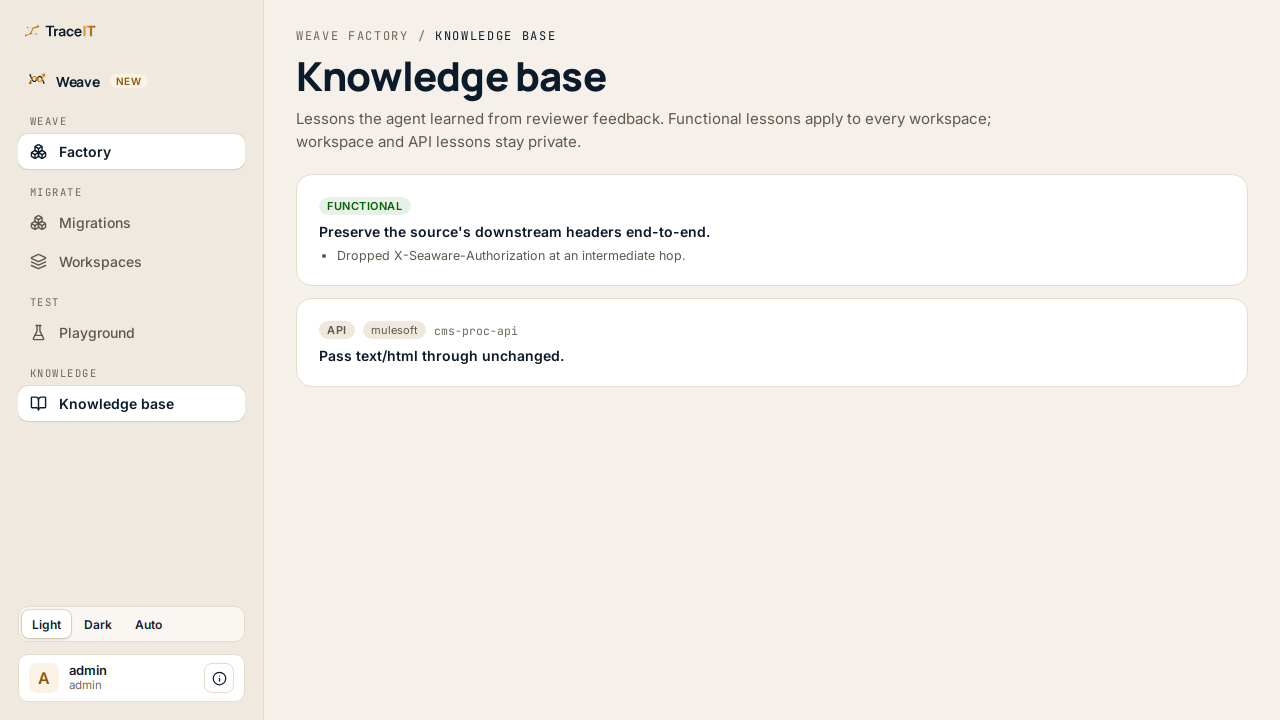
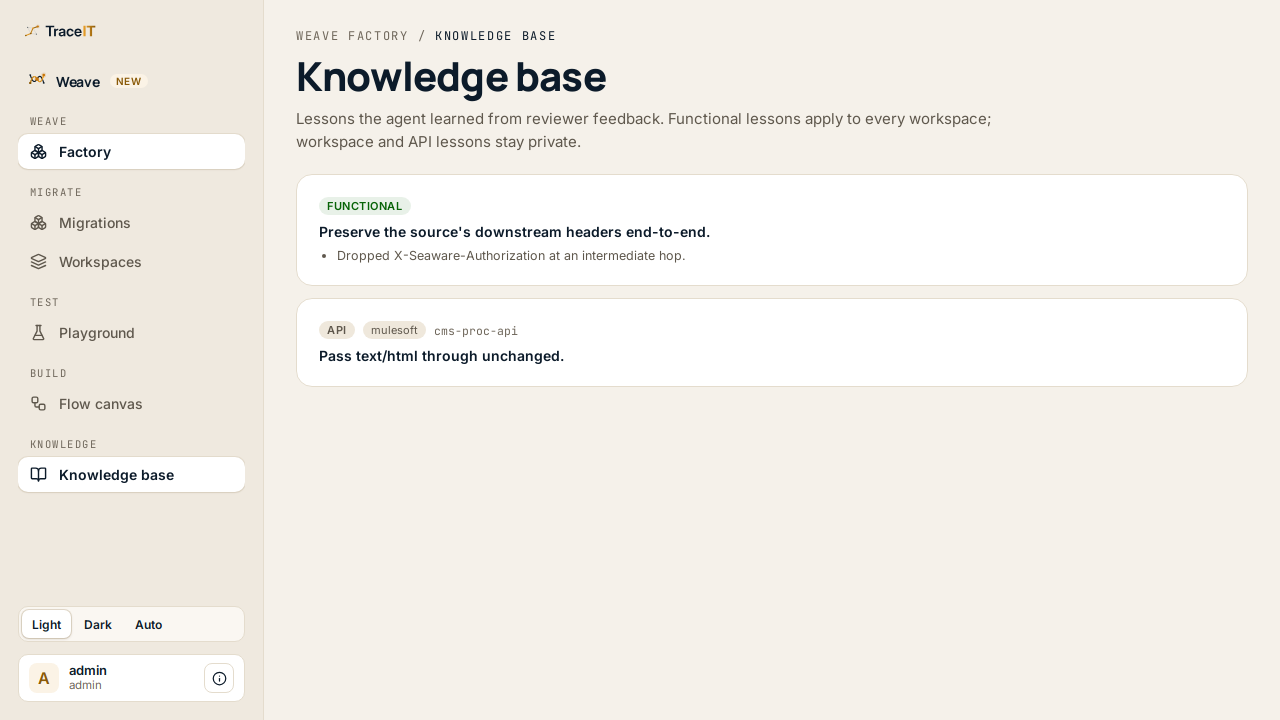
feat(weave-factory): low-code flow canvas + by-example data mapper (Part B)
- Flow canvas with a core node set (HTTP trigger, Transform, Call API, Respond); the full palette
  from the WSO2 connector/mediator catalog is the later phase (clear seam in the node strip).
- Two-panel source/target mapper. A target field is filled three ways: direct mapping, a small
  expression, or BY EXAMPLE - paste a sample source + desired output and the agent infers the rules.
- Inference runs in the BFF behind a clean Inferrer interface (POST /api/factory/infer-mapping):
  a deterministic, in-estate heuristic stub today (no external AI; sample data never leaves),
  with a seam (MODEL_URL) to wire the in-estate model; reports needsModel so the UI says so.
- Readable rules + a LIVE PREVIEW that applies the mapping to the sample and highlights field
  mismatches vs the desired output (trust without reading code). Compile to a WSO2 MI payloadFactory
  artifact. Pure mapping lib (apply/diff/compile) unit-tested.
- Tests: vitest (bff 10, app 18) + Playwright+axe (16); screenshots incl canvas in runs/weave-factory.

Changed region(s): [[0.0, 0.5194, 0.2188, 0.7028]]

diff --git a/apps/weave-factory/src/screens/Canvas.tsx b/apps/weave-factory/src/screens/Canvas.tsx
@@ -1,0 +1,109 @@
+import { useMemo, useState } from "react";
+import { useMutation } from "@tanstack/react-query";
+import { Webhook, Shuffle, Send, CornerDownLeft } from "lucide-react";
+import { api, type MappingRule } from "../api.ts";
+import { applyMapping, diffMapping, ruleLabel, compileToArtifact } from "../lib/mapping.ts";
+import { Card } from "../components/ui.tsx";
+import { PageHeader } from "./PageHeader.tsx";
+
+// Core node set (first pass). Generating the full palette from the WSO2 connector/mediator catalog
+// is the later phase; this strip is the seam where that palette will plug in.
+const NODES = [
+  { key: "trigger", label: "HTTP trigger", icon: Webhook },
+  { key: "transform", label: "Transform", icon: Shuffle },
+  { key: "call", label: "Call API", icon: Send },
+  { key: "respond", label: "Respond", icon: CornerDownLeft },
+];
+
+const field = { width: "100%", borderRadius: 9, border: "1px solid var(--border)", background: "var(--surface2)", padding: "8px 12px", fontSize: 12.5 } as const;
+
+export function Canvas() {
+  const [node, setNode] = useState("transform");
+  const [sampleStr, setSampleStr] = useState('{\n  "customer": { "ref": "C1", "name": "Jane Doe", "email": "jane@x.com" }\n}');
+  const [desiredStr, setDesiredStr] = useState('{\n  "ref": "C1",\n  "email": "jane@x.com",\n  "first": "Jane"\n}');
+  const [rules, setRules] = useState<MappingRule[]>([]);
+  const [note, setNote] = useState("");
+
+  const parsed = useMemo(() => {
+    let source: unknown = {}; let desired: unknown = {}; let err = "";
+    try { source = JSON.parse(sampleStr || "{}"); } catch { err = "Sample source is not valid JSON"; }
+    try { desired = JSON.parse(desiredStr || "{}"); } catch { err = err || "Desired output is not valid JSON"; }
+    return { source, desired, err };
+  }, [sampleStr, desiredStr]);
+
+  const produced = useMemo(() => applyMapping(rules, parsed.source), [rules, parsed.source]);
+  const mismatches = useMemo(() => diffMapping(produced, parsed.desired), [produced, parsed.desired]);
+  const artifact = useMemo(() => compileToArtifact(rules, { name: "transform" }), [rules]);
+
+  const infer = useMutation({
+    mutationFn: () => api.inferMapping(parsed.source, parsed.desired),
+    onSuccess: (r) => { setRules(r.rules); setNote(r.needsModel ? `Engine: ${r.engine}. Some fields were guessed - confirm with the preview, or connect the in-estate model for better inference.` : `Engine: ${r.engine}. All fields mapped from the example.`); },
+  });
+
+  function updateRule(i: number, patch: Partial<MappingRule>) { setRules((rs) => rs.map((r, j) => (j === i ? { ...r, ...patch } : r))); }
+  function addRule() { setRules((rs) => [...rs, { target: "", kind: "direct", source: "" }]); }
+
+  return (
+    <>
+      <PageHeader area="Flow canvas" title="Flow canvas" subtitle="Build an integration visually. The Transform node maps source to target - by direct mapping, a small expression, or by example (paste a sample and the desired output; the agent infers the mapping)." />
+
+      <Card style={{ display: "flex", gap: 10, alignItems: "center", flexWrap: "wrap" }}>
+        {NODES.map((n, i) => (
+          <span key={n.key} style={{ display: "flex", alignItems: "center", gap: 10 }}>
+            <button className={`mf-btn ${node === n.key ? "mf-api-on" : ""}`} onClick={() => setNode(n.key)}
+              style={{ display: "flex", alignItems: "center", gap: 8, padding: "10px 14px", borderRadius: 12, border: "1px solid var(--border)", background: "var(--surface2)", cursor: "pointer", fontWeight: 600, fontSize: 13 }}>
+              <n.icon size={16} aria-hidden="true" />{n.label}
+            </button>
+            {i < NODES.length - 1 && <span style={{ color: "var(--faint)" }}>→</span>}
+          </span>
+        ))}
+      </Card>
+
+      {node === "transform" ? (
+        <div style={{ display: "flex", gap: 18, flexWrap: "wrap", alignItems: "flex-start" }}>
+          <Card style={{ flex: "1 1 360px", display: "flex", flexDirection: "column", gap: 10 }}>
+            <h2 style={{ margin: 0, fontSize: 16 }}>Source (sample)</h2>
+            <textarea aria-label="Source sample JSON" className="mf-input mf-mono" value={sampleStr} onChange={(e) => setSampleStr(e.target.value)} rows={8} style={{ ...field, resize: "vertical" }} />
+            <h2 style={{ margin: 0, fontSize: 16 }}>Target (desired output)</h2>
+            <textarea aria-label="Desired output JSON" className="mf-input mf-mono" value={desiredStr} onChange={(e) => setDesiredStr(e.target.value)} rows={8} style={{ ...field, resize: "vertical" }} />
+            {parsed.err && <p role="alert" style={{ margin: 0, color: "var(--bad)", fontSize: 13 }}>{parsed.err}</p>}
+            <button className="mf-btn mf-pri" disabled={infer.isPending || !!parsed.err} onClick={() => infer.mutate()} style={{ height: 40, borderRadius: 10, background: "var(--accent)", color: "var(--onAccent)", fontWeight: 600, border: 0, cursor: "pointer" }}>{infer.isPending ? "Inferring…" : "Infer mapping by example"}</button>
+            {note && <p style={{ margin: 0, fontSize: 12.5, color: "var(--muted)" }}>{note}</p>}
+          </Card>
+
+          <Card style={{ flex: "1 1 420px", display: "flex", flexDirection: "column", gap: 10 }}>
+            <div style={{ display: "flex", justifyContent: "space-between", alignItems: "center" }}>
+              <h2 style={{ margin: 0, fontSize: 16 }}>Mapping rules</h2>
+              <button className="mf-btn mf-gho" onClick={addRule} style={{ height: 30, padding: "0 12px", borderRadius: 8, border: "1px solid var(--border)", background: "var(--surface)", cursor: "pointer", fontSize: 12.5 }}>Add rule</button>
+            </div>
+            {rules.length === 0 ? <p style={{ color: "var(--faint)", fontSize: 13 }}>Infer by example, or add rules manually (direct / expression / constant).</p> :
+              rules.map((r, i) => (
+                <div key={i} style={{ display: "flex", flexDirection: "column", gap: 6, padding: 10, borderRadius: 10, border: "1px solid var(--border)", background: "var(--surface2)" }}>
+                  <code className="mf-mono" style={{ fontSize: 12 }}>{ruleLabel(r)}</code>
+                  <div style={{ display: "flex", gap: 6, flexWrap: "wrap" }}>
+                    <input aria-label="target" className="mf-input mf-mono" value={r.target} onChange={(e) => updateRule(i, { target: e.target.value })} placeholder="target" style={{ ...field, width: 120, padding: "4px 8px" }} />
+                    <select aria-label="kind" className="mf-input" value={r.kind} onChange={(e) => updateRule(i, { kind: e.target.value as MappingRule["kind"] })} style={{ ...field, width: 110, padding: "4px 8px" }}>
+                      <option value="direct">direct</option><option value="expr">expression</option><option value="const">constant</option>
+                    </select>
+                    <input aria-label="value" className="mf-input mf-mono" value={r.kind === "direct" ? (r.source ?? "") : (r.expr ?? "")} onChange={(e) => updateRule(i, r.kind === "direct" ? { source: e.target.value } : { expr: e.target.value })} placeholder={r.kind === "direct" ? "source.path" : r.kind === "expr" ? "firstWord(a.b)" : '"value"'} style={{ ...field, flex: 1, minWidth: 120, padding: "4px 8px" }} />
+                  </div>
+                  {r.note && <span style={{ fontSize: 11.5, color: "var(--warn)" }}>{r.note}</span>}
+                </div>
+              ))}
+            <h2 style={{ margin: "6px 0 0", fontSize: 16 }}>Live preview {mismatches.length === 0 ? <span style={{ fontSize: 12, color: "var(--ok)" }}>✓ matches the example</span> : <span style={{ fontSize: 12, color: "var(--bad)" }}>{mismatches.length} field(s) differ</span>}</h2>
+            <pre className="mf-mono" data-testid="preview" style={{ margin: 0, padding: 12, borderRadius: 10, background: "var(--surface2)", border: "1px solid var(--border)", fontSize: 12, overflow: "auto", maxHeight: 220 }}>{JSON.stringify(produced, null, 2)}</pre>
+            {mismatches.length > 0 && (
+              <div style={{ display: "flex", flexDirection: "column", gap: 3 }}>
+                {mismatches.map((m) => <span key={m.path} style={{ fontSize: 12, color: "var(--bad)" }} className="mf-mono">{m.path}: got {JSON.stringify(m.produced)} ≠ want {JSON.stringify(m.desired)}</span>)}
+              </div>
+            )}
+            <h2 style={{ margin: "6px 0 0", fontSize: 16 }}>WSO2 artifact</h2>
+            <pre className="mf-mono" style={{ margin: 0, padding: 12, borderRadius: 10, background: "var(--surface2)", border: "1px solid var(--border)", fontSize: 11.5, overflow: "auto", maxHeight: 200 }}>{artifact}</pre>
+          </Card>
+        </div>
+      ) : (
+        <Card><p style={{ color: "var(--muted)" }}>The <strong>{NODES.find((n) => n.key === node)?.label}</strong> node is part of the core set. The full node palette is generated from the WSO2 connector and mediator catalog in the next phase.</p></Card>
+      )}
+    </>
+  );
+}

diff --git a/apps/weave-factory/src/lib/mapping.ts b/apps/weave-factory/src/lib/mapping.ts
@@ -1,0 +1,75 @@
+// Pure data-mapping core for the by-example mapper. No network, no eval. The by-example INFERENCE
+// runs in the BFF (in-estate); this file applies/diffs/compiles the resulting rules so the UI can
+// show readable rules + a live preview, and compile to a WSO2 artifact.
+export interface MappingRule { target: string; kind: "direct" | "expr" | "const"; source?: string; expr?: string; note?: string; }
+
+export function getPath(obj: unknown, path: string): unknown {
+  return path.split(".").reduce<unknown>((o, k) => (o && typeof o === "object" ? (o as Record<string, unknown>)[k] : undefined), obj);
+}
+function setPath(obj: Record<string, unknown>, path: string, value: unknown) {
+  const parts = path.split("."); const last = parts.pop()!;
+  let cur = obj;
+  for (const p of parts) { if (typeof cur[p] !== "object" || cur[p] === null) cur[p] = {}; cur = cur[p] as Record<string, unknown>; }
+  cur[last] = value;
+}
+export function flattenPaths(obj: unknown, prefix = ""): string[] {
+  if (!obj || typeof obj !== "object" || Array.isArray(obj)) return prefix ? [prefix] : [];
+  return Object.entries(obj as Record<string, unknown>).flatMap(([k, v]) => {
+    const p = prefix ? `${prefix}.${k}` : k;
+    return v && typeof v === "object" && !Array.isArray(v) ? flattenPaths(v, p) : [p];
+  });
+}
+
+function evalExpr(expr: string, source: unknown): unknown {
+  const m = expr.match(/^(\w+)\((.+)\)$/);
+  if (!m) return getPath(source, expr.trim());
+  const [, fn, arg] = m;
+  const v = getPath(source, arg.trim());
+  const s = v == null ? "" : String(v);
+  switch (fn) {
+    case "firstWord": return s.split(/\s+/)[0];
+    case "lower": return s.toLowerCase();
+    case "upper": return s.toUpperCase();
+    case "trim": return s.trim();
+    default: return v;
+  }
+}
+
+export function applyMapping(rules: MappingRule[], source: unknown): Record<string, unknown> {
+  const out: Record<string, unknown> = {};
+  for (const r of rules) {
+    if (r.kind === "direct" && r.source) setPath(out, r.target, getPath(source, r.source));
+    else if (r.kind === "expr" && r.expr) setPath(out, r.target, evalExpr(r.expr, source));
+    else if (r.kind === "const" && r.expr !== undefined) { try { setPath(out, r.target, JSON.parse(r.expr)); } catch { setPath(out, r.target, r.expr); } }
+  }
+  return out;
+}
+
+export interface Mismatch { path: string; produced: unknown; desired: unknown; }
+export function diffMapping(produced: unknown, desired: unknown): Mismatch[] {
+  const paths = new Set([...flattenPaths(produced), ...flattenPaths(desired)]);
+  const out: Mismatch[] = [];
+  for (const p of paths) {
+    const a = getPath(produced, p); const b = getPath(desired, p);
+    if (JSON.stringify(a) !== JSON.stringify(b)) out.push({ path: p, produced: a, desired: b });
+  }
+  return out;
+}
+
+export function ruleLabel(r: MappingRule): string {
+  if (r.kind === "direct") return `${r.target} ← ${r.source}`;
+  if (r.kind === "expr") return `${r.target} ← ${r.expr}`;
+  return `${r.target} = ${r.expr} (constant)`;
+}
+
+/** Compile rules to a WSO2 artifact (MI PayloadFactory-style). First pass: a readable mapping
+ * snippet; the full connector/mediator catalog generation is the later phase (seam). */
+export function compileToArtifact(rules: MappingRule[], opts: { name?: string } = {}): string {
+  const lines = rules.map((r) => {
+    if (r.kind === "direct") return `  "${r.target}": "$ctx:source.${r.source}"`;
+    if (r.kind === "expr") return `  "${r.target}": "{{${r.expr}}}"`;
+    return `  "${r.target}": ${r.expr}`;
+  });
+  return `<!-- Weave Factory generated mapping: ${opts.name ?? "transform"} (WSO2 MI payloadFactory). -->\n` +
+    `<payloadFactory media-type="json">\n <format>{\n${lines.join(",\n")}\n }</format>\n</payloadFactory>`;
+}

diff --git a/apps/weave-factory-bff/src/inference.ts b/apps/weave-factory-bff/src/inference.ts
@@ -1,0 +1,46 @@
+// By-example mapping inference behind a clean interface. Wire `model` to the in-estate LLM when
+// available (MODEL_URL); otherwise a deterministic heuristic stub runs so the feature works and is
+// testable. The stub does NOT call any external AI. Sample data stays in the estate either way.
+export interface MappingRule { target: string; kind: "direct" | "expr" | "const"; source?: string; expr?: string; note?: string; }
+export interface InferInput { sampleSource: unknown; desiredOutput: unknown; }
+export interface Inferrer { infer(input: InferInput): Promise<{ rules: MappingRule[]; engine: string; needsModel: boolean }>; }
+
+function flatten(obj: unknown, prefix = ""): Record<string, unknown> {
+  const out: Record<string, unknown> = {};
+  if (obj && typeof obj === "object" && !Array.isArray(obj)) {
+    for (const [k, v] of Object.entries(obj as Record<string, unknown>)) {
+      const p = prefix ? `${prefix}.${k}` : k;
+      if (v && typeof v === "object" && !Array.isArray(v)) Object.assign(out, flatten(v, p));
+      else out[p] = v;
+    }
+  } else if (prefix) { out[prefix] = obj; }
+  return out;
+}
+
+/** Heuristic inference: match each desired leaf to a source leaf by equal value, else a simple
+ * transform (first word / lower / upper), else a constant. Good for the obvious cases; complex or
+ * natural-language transforms need the in-estate model. */
+export class HeuristicInferrer implements Inferrer {
+  async infer({ sampleSource, desiredOutput }: InferInput) {
+    const src = flatten(sampleSource); const want = flatten(desiredOutput);
+    const rules: MappingRule[] = [];
+    let needsModel = false;
+    for (const [tPath, tVal] of Object.entries(want)) {
+      const exact = Object.keys(src).find((s) => src[s] === tVal);
+      if (exact) { rules.push({ target: tPath, kind: "direct", source: exact }); continue; }
+      const strMatch = typeof tVal === "string" ? Object.keys(src).find((s) =>
+        typeof src[s] === "string" && (src[s] as string).toLowerCase().includes((tVal as string).toLowerCase()) && (tVal as string).length > 0) : undefined;
+      if (strMatch) { rules.push({ target: tPath, kind: "expr", source: strMatch, expr: `firstWord(${strMatch})`, note: "guessed transform; confirm with the preview" }); needsModel = true; continue; }
+      rules.push({ target: tPath, kind: "const", expr: JSON.stringify(tVal), note: "no source match found; set a mapping or provide another example" });
+      needsModel = true;
+    }
+    return { rules, engine: "heuristic", needsModel };
+  }
+}
+
+export function createInferrer(modelUrl?: string): Inferrer {
+  // Seam: when the in-estate model is available, return a model-backed Inferrer here.
+  // if (modelUrl) return new ModelInferrer(modelUrl);
+  void modelUrl;
+  return new HeuristicInferrer();
+}

diff --git a/apps/weave-factory/test/mapping.test.ts b/apps/weave-factory/test/mapping.test.ts
@@ -1,0 +1,28 @@
+import { describe, it, expect } from "vitest";
+import { applyMapping, diffMapping, flattenPaths, compileToArtifact, ruleLabel, type MappingRule } from "../src/lib/mapping";
+
+describe("applyMapping", () => {
+  it("applies direct, expr and const rules", () => {
+    const rules: MappingRule[] = [
+      { target: "ref", kind: "direct", source: "customer.ref" },
+      { target: "first", kind: "expr", expr: "firstWord(customer.name)" },
+      { target: "channel", kind: "const", expr: '"web"' },
+    ];
+    const out = applyMapping(rules, { customer: { ref: "C1", name: "Jane Doe" } });
+    expect(out).toEqual({ ref: "C1", first: "Jane", channel: "web" });
+  });
+});
+describe("diffMapping", () => {
+  it("flags mismatched fields only", () => {
+    const d = diffMapping({ a: 1, b: 2 }, { a: 1, b: 3 });
+    expect(d).toEqual([{ path: "b", produced: 2, desired: 3 }]);
+  });
+});
+describe("flattenPaths + ruleLabel + compile", () => {
+  it("flattens nested paths", () => { expect(flattenPaths({ a: { b: 1 } })).toEqual(["a.b"]); });
+  it("labels rules readably", () => { expect(ruleLabel({ target: "x", kind: "direct", source: "y" })).toBe("x ← y"); });
+  it("compiles to a WSO2 payloadFactory artifact", () => {
+    const art = compileToArtifact([{ target: "ref", kind: "direct", source: "customer.ref" }], { name: "t" });
+    expect(art).toContain("payloadFactory"); expect(art).toContain("ref");
+  });
+});

diff --git a/apps/weave-factory-bff/src/routes.ts b/apps/weave-factory-bff/src/routes.ts
@@ -1,9 +1,11 @@
 import type { FastifyInstance, FastifyRequest } from "fastify";
 import type { Config } from "./config.js";
 import { mtRequest, type MtClient } from "./mt.js";
+import { createInferrer, type InferInput } from "./inference.js";
 
 export function registerRoutes(app: FastifyInstance, cfg: Config) {
   const mt: MtClient = { base: cfg.MT_BASE_URL, token: cfg.MT_ADMIN_TOKEN };
+  const inferrer = createInferrer(process.env.MODEL_URL || undefined);
 
   async function need(req: FastifyRequest): Promise<void> {
     const sid = req.unsignCookie(req.cookies.sid ?? "").value;
@@ -36,6 +38,13 @@ export function registerRoutes(app: FastifyInstance, cfg: Config) {
 
   // Playground: send a per-API request, get the REAL response (engine lives in the backend).
   app.post("/api/factory/proxy", (req, reply) => fwd(req, reply, "POST", "/api/proxy", req.body));
+
+  // By-example data-mapping inference (in-estate; no external AI).
+  app.post("/api/factory/infer-mapping", async (req, reply) => {
+    await need(req);
+    const body = (req.body ?? {}) as InferInput;
+    return reply.send(await inferrer.infer({ sampleSource: body.sampleSource ?? {}, desiredOutput: body.desiredOutput ?? {} }));
+  });
 
   const ACTIONS = new Set(["verify", "parity", "optimize", "advance", "feedback"]);
   app.post("/api/factory/migrations/:id/:action", (req, reply) => {

diff --git a/apps/weave-factory/src/api.ts b/apps/weave-factory/src/api.ts
@@ -17,6 +17,8 @@ export interface Migration { id: string; apiName?: string; workspace?: string; t
 export interface WorkspaceCfg { id?: string; name: string; servers?: Record<string, { host?: string; port?: number; username?: string } | undefined>; }
 export interface Lesson { id: string; scope: string; technology?: string | null; summary: string; mistakes?: string[]; apiName?: string; workspace?: string; status?: string; createdAt?: string; phase?: string; }
 export interface ProxyResult { status: number; body: string; ms: number; slo: string; }
+export interface MappingRule { target: string; kind: "direct" | "expr" | "const"; source?: string; expr?: string; note?: string; }
+export interface InferResult { rules: MappingRule[]; engine: string; needsModel: boolean; }
 
 export const api = {
   me: () => j<Me>("/api/auth/me"),
@@ -25,4 +27,5 @@ export const api = {
   migration: (id: string) => j<Migration>(`/api/factory/migrations/${id}`),
   knowledge: () => j<{ feedback: Lesson[] }>("/api/factory/knowledge"),
   proxy: (body: unknown) => j<ProxyResult>("/api/factory/proxy", { method: "POST", body: JSON.stringify(body) }),
+  inferMapping: (sampleSource: unknown, desiredOutput: unknown) => j<InferResult>("/api/factory/infer-mapping", { method: "POST", body: JSON.stringify({ sampleSource, desiredOutput }) }),
 };

diff --git a/apps/weave-factory-bff/test/inference.test.ts b/apps/weave-factory-bff/test/inference.test.ts
@@ -1,0 +1,22 @@
+import { describe, it, expect } from "vitest";
+import { HeuristicInferrer } from "../src/inference";
+
+const inf = new HeuristicInferrer();
+describe("by-example mapping inference (stub, in-estate)", () => {
+  it("maps exact value matches to direct rules", async () => {
+    const { rules } = await inf.infer({ sampleSource: { customer: { ref: "C1", email: "a@x.com" } }, desiredOutput: { ref: "C1", email: "a@x.com" } });
+    expect(rules).toEqual(expect.arrayContaining([
+      { target: "ref", kind: "direct", source: "customer.ref" },
+      { target: "email", kind: "direct", source: "customer.email" },
+    ]));
+  });
+  it("flags fields with no source match as needing the model", async () => {
+    const { rules, needsModel } = await inf.infer({ sampleSource: { a: 1 }, desiredOutput: { total: 999 } });
+    expect(needsModel).toBe(true);
+    expect(rules[0]).toMatchObject({ target: "total", kind: "const" });
+  });
+  it("reports the engine so the UI can note when the in-estate model is needed", async () => {
+    const r = await inf.infer({ sampleSource: {}, desiredOutput: {} });
+    expect(r.engine).toBe("heuristic");
+  });
+});

diff --git a/apps/weave-factory/e2e/factory.spec.ts b/apps/weave-factory/e2e/factory.spec.ts
@@ -8,6 +8,7 @@ const routes = [
   { path: "/workspaces", name: "workspaces" },
   { path: "/playground", name: "playground" },
   { path: "/knowledge", name: "knowledge" },
+  { path: "/canvas", name: "canvas" },
 ];
 const themes = ["light", "dark"] as const;
 mkdirSync("runs/weave-factory", { recursive: true });
@@ -53,6 +54,15 @@ test("playground sends a request and shows the real response", async ({ page }) 
   await page.getByRole("button", { name: "Send request" }).click();
   await expect(page.getByText(/HTTP 200/)).toBeVisible();
   await page.screenshot({ path: "runs/weave-factory/playground-response.png" });
+});
+
+test("canvas infers a mapping by example and the live preview matches", async ({ page }) => {
+  await mockApi(page);
+  await page.goto("/canvas");
+  await page.getByRole("button", { name: /Infer mapping by example/ }).click();
+  await expect(page.getByText("✓ matches the example")).toBeVisible();
+  await expect(page.getByText("ref ← customer.ref")).toBeVisible();
+  await page.screenshot({ path: "runs/weave-factory/canvas-mapper.png" });
 });
 
 test("sign-in splash when unauthenticated", async ({ page }) => {

diff --git a/apps/weave-factory/src/components/Shell.tsx b/apps/weave-factory/src/components/Shell.tsx
@@ -1,7 +1,7 @@
 import { useState } from "react";
 import { NavLink, Outlet } from "react-router-dom";
 import { useQuery } from "@tanstack/react-query";
-import { Boxes, Layers, FlaskConical, BookOpen, ExternalLink, Info } from "lucide-react";
+import { Boxes, Layers, FlaskConical, BookOpen, Workflow, ExternalLink, Info } from "lucide-react";
 import { BRAND, WEAVE_GATEWAY_URL, WeaveMark, WeaveLockup, TraceItLogo, PRODUCT_NAME, TAGLINE, COMPANY_LINE } from "../brand.tsx";
 import { useTheme } from "../theme.tsx";
 import { ThemeSwitch } from "./ThemeSwitch.tsx";
@@ -13,6 +13,7 @@ const groups: { title: string; items: { to: string; label: string; icon: typeof 
     { to: "/workspaces", label: "Workspaces", icon: Layers },
   ] },
   { title: "TEST", items: [{ to: "/playground", label: "Playground", icon: FlaskConical }] },
+  { title: "BUILD", items: [{ to: "/canvas", label: "Flow canvas", icon: Workflow }] },
   { title: "KNOWLEDGE", items: [{ to: "/knowledge", label: "Knowledge base", icon: BookOpen }] },
 ];
 

diff --git a/apps/weave-factory/e2e/mocks.ts b/apps/weave-factory/e2e/mocks.ts
@@ -29,6 +29,11 @@ export async function mockApi(page: Page, opts: { signedIn?: boolean } = {}) {
     if (url.includes("/api/factory/migrations")) return route.fulfill(json(migrations));
     if (url.includes("/api/factory/knowledge")) return route.fulfill(json(knowledge));
     if (url.includes("/api/factory/proxy")) return route.fulfill(json({ status: 200, body: "{\"data\":{\"ok\":true}}", ms: 120, slo: "fast" }));
+    if (url.includes("/api/factory/infer-mapping")) return route.fulfill(json({ engine: "heuristic", needsModel: false, rules: [
+      { target: "ref", kind: "direct", source: "customer.ref" },
+      { target: "email", kind: "direct", source: "customer.email" },
+      { target: "first", kind: "expr", expr: "firstWord(customer.name)" },
+    ] }));
     return route.fulfill(json({ ok: true }));
   });
 }

diff --git a/apps/weave-factory/src/App.tsx b/apps/weave-factory/src/App.tsx
@@ -8,6 +8,7 @@ import { Migrations } from "./screens/Migrations.tsx";
 import { Workspaces } from "./screens/Workspaces.tsx";
 import { Playground } from "./screens/Playground.tsx";
 import { Knowledge } from "./screens/Knowledge.tsx";
+import { Canvas } from "./screens/Canvas.tsx";
 
 function SignIn() {
   const { resolved } = useTheme();
@@ -35,6 +36,7 @@ export function App() {
         <Route path="workspaces" element={<Workspaces />} />
         <Route path="playground" element={<Playground />} />
         <Route path="knowledge" element={<Knowledge />} />
+        <Route path="canvas" element={<Canvas />} />
       </Route>
     </Routes>
   );
